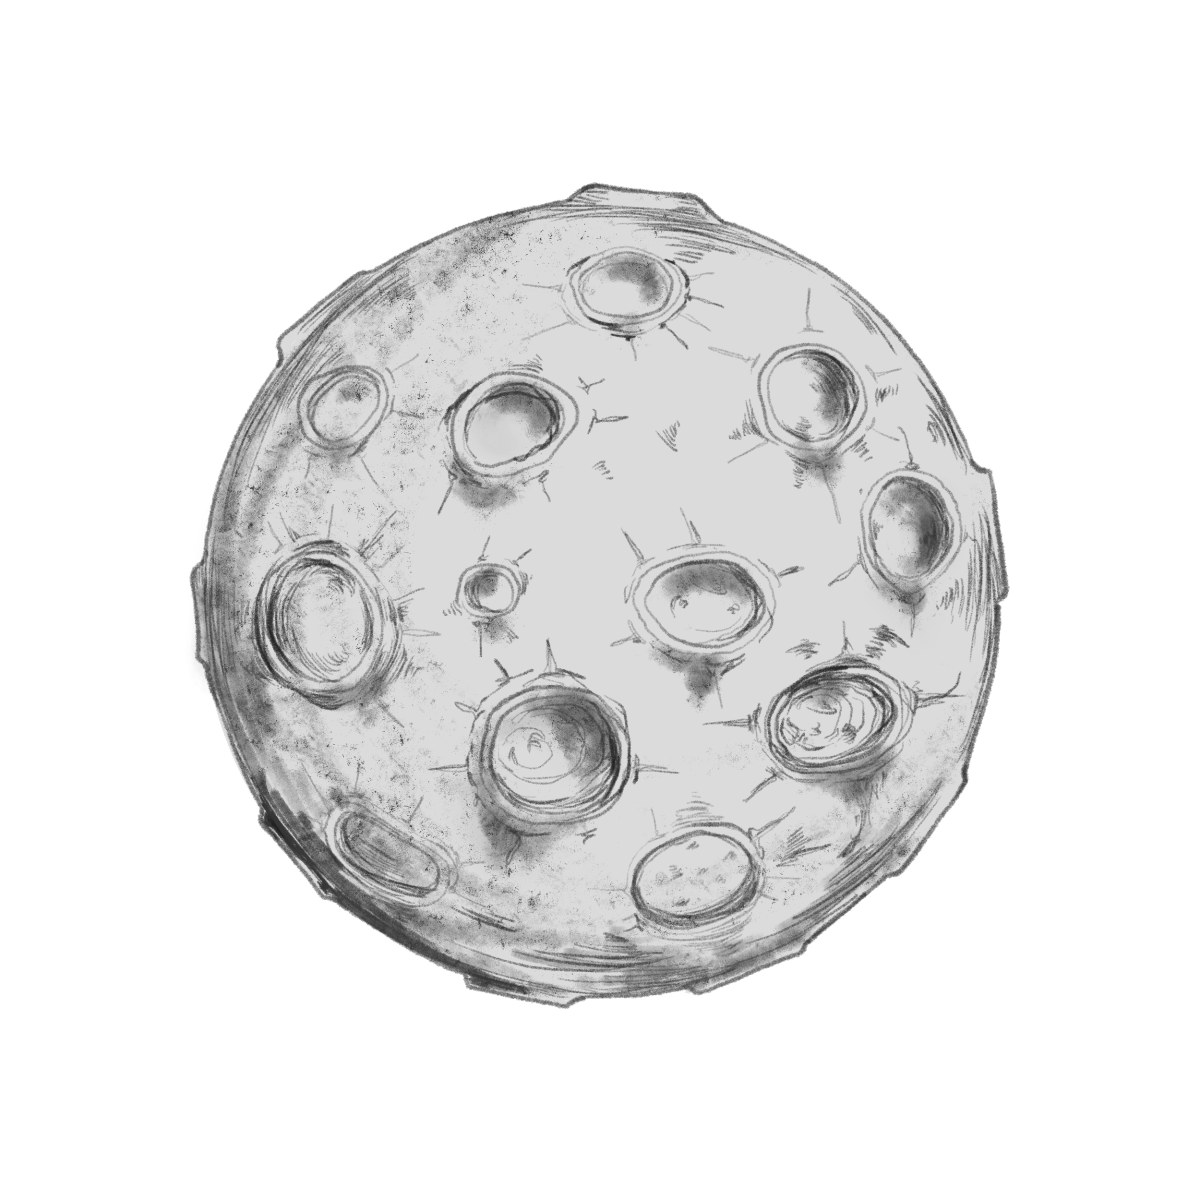
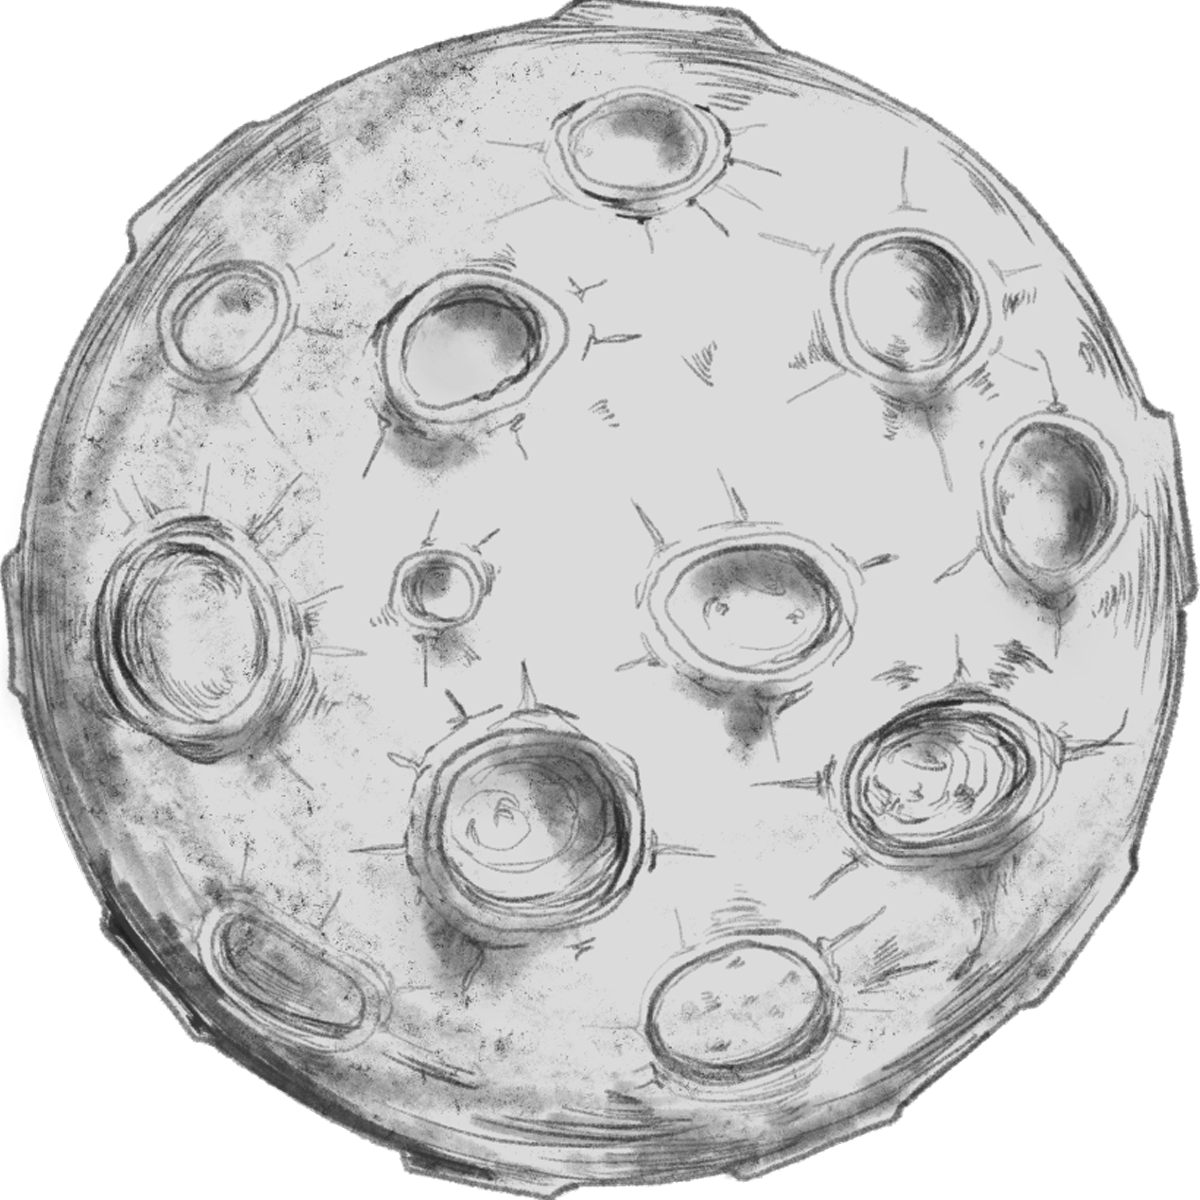
Cambio imagenes
He retocado las imágenes con photoshop para que la luna y la tierra tengan el tamaño que necesitamos y también le he quitado el fuego a la nave para que comience así el juego.

diff --git a/index.html b/index.html
@@ -14,7 +14,7 @@
         <p id="" class=""></p>
     </div>
 
-    <img id="nave" class="nave"src="naveOk.png"></img>
+    <img id="nave" class="nave"src="naveOkrec.png"></img>
     <div id="tierra" class="tierra">
         <img src="tierra.png"></img>
     </div>
